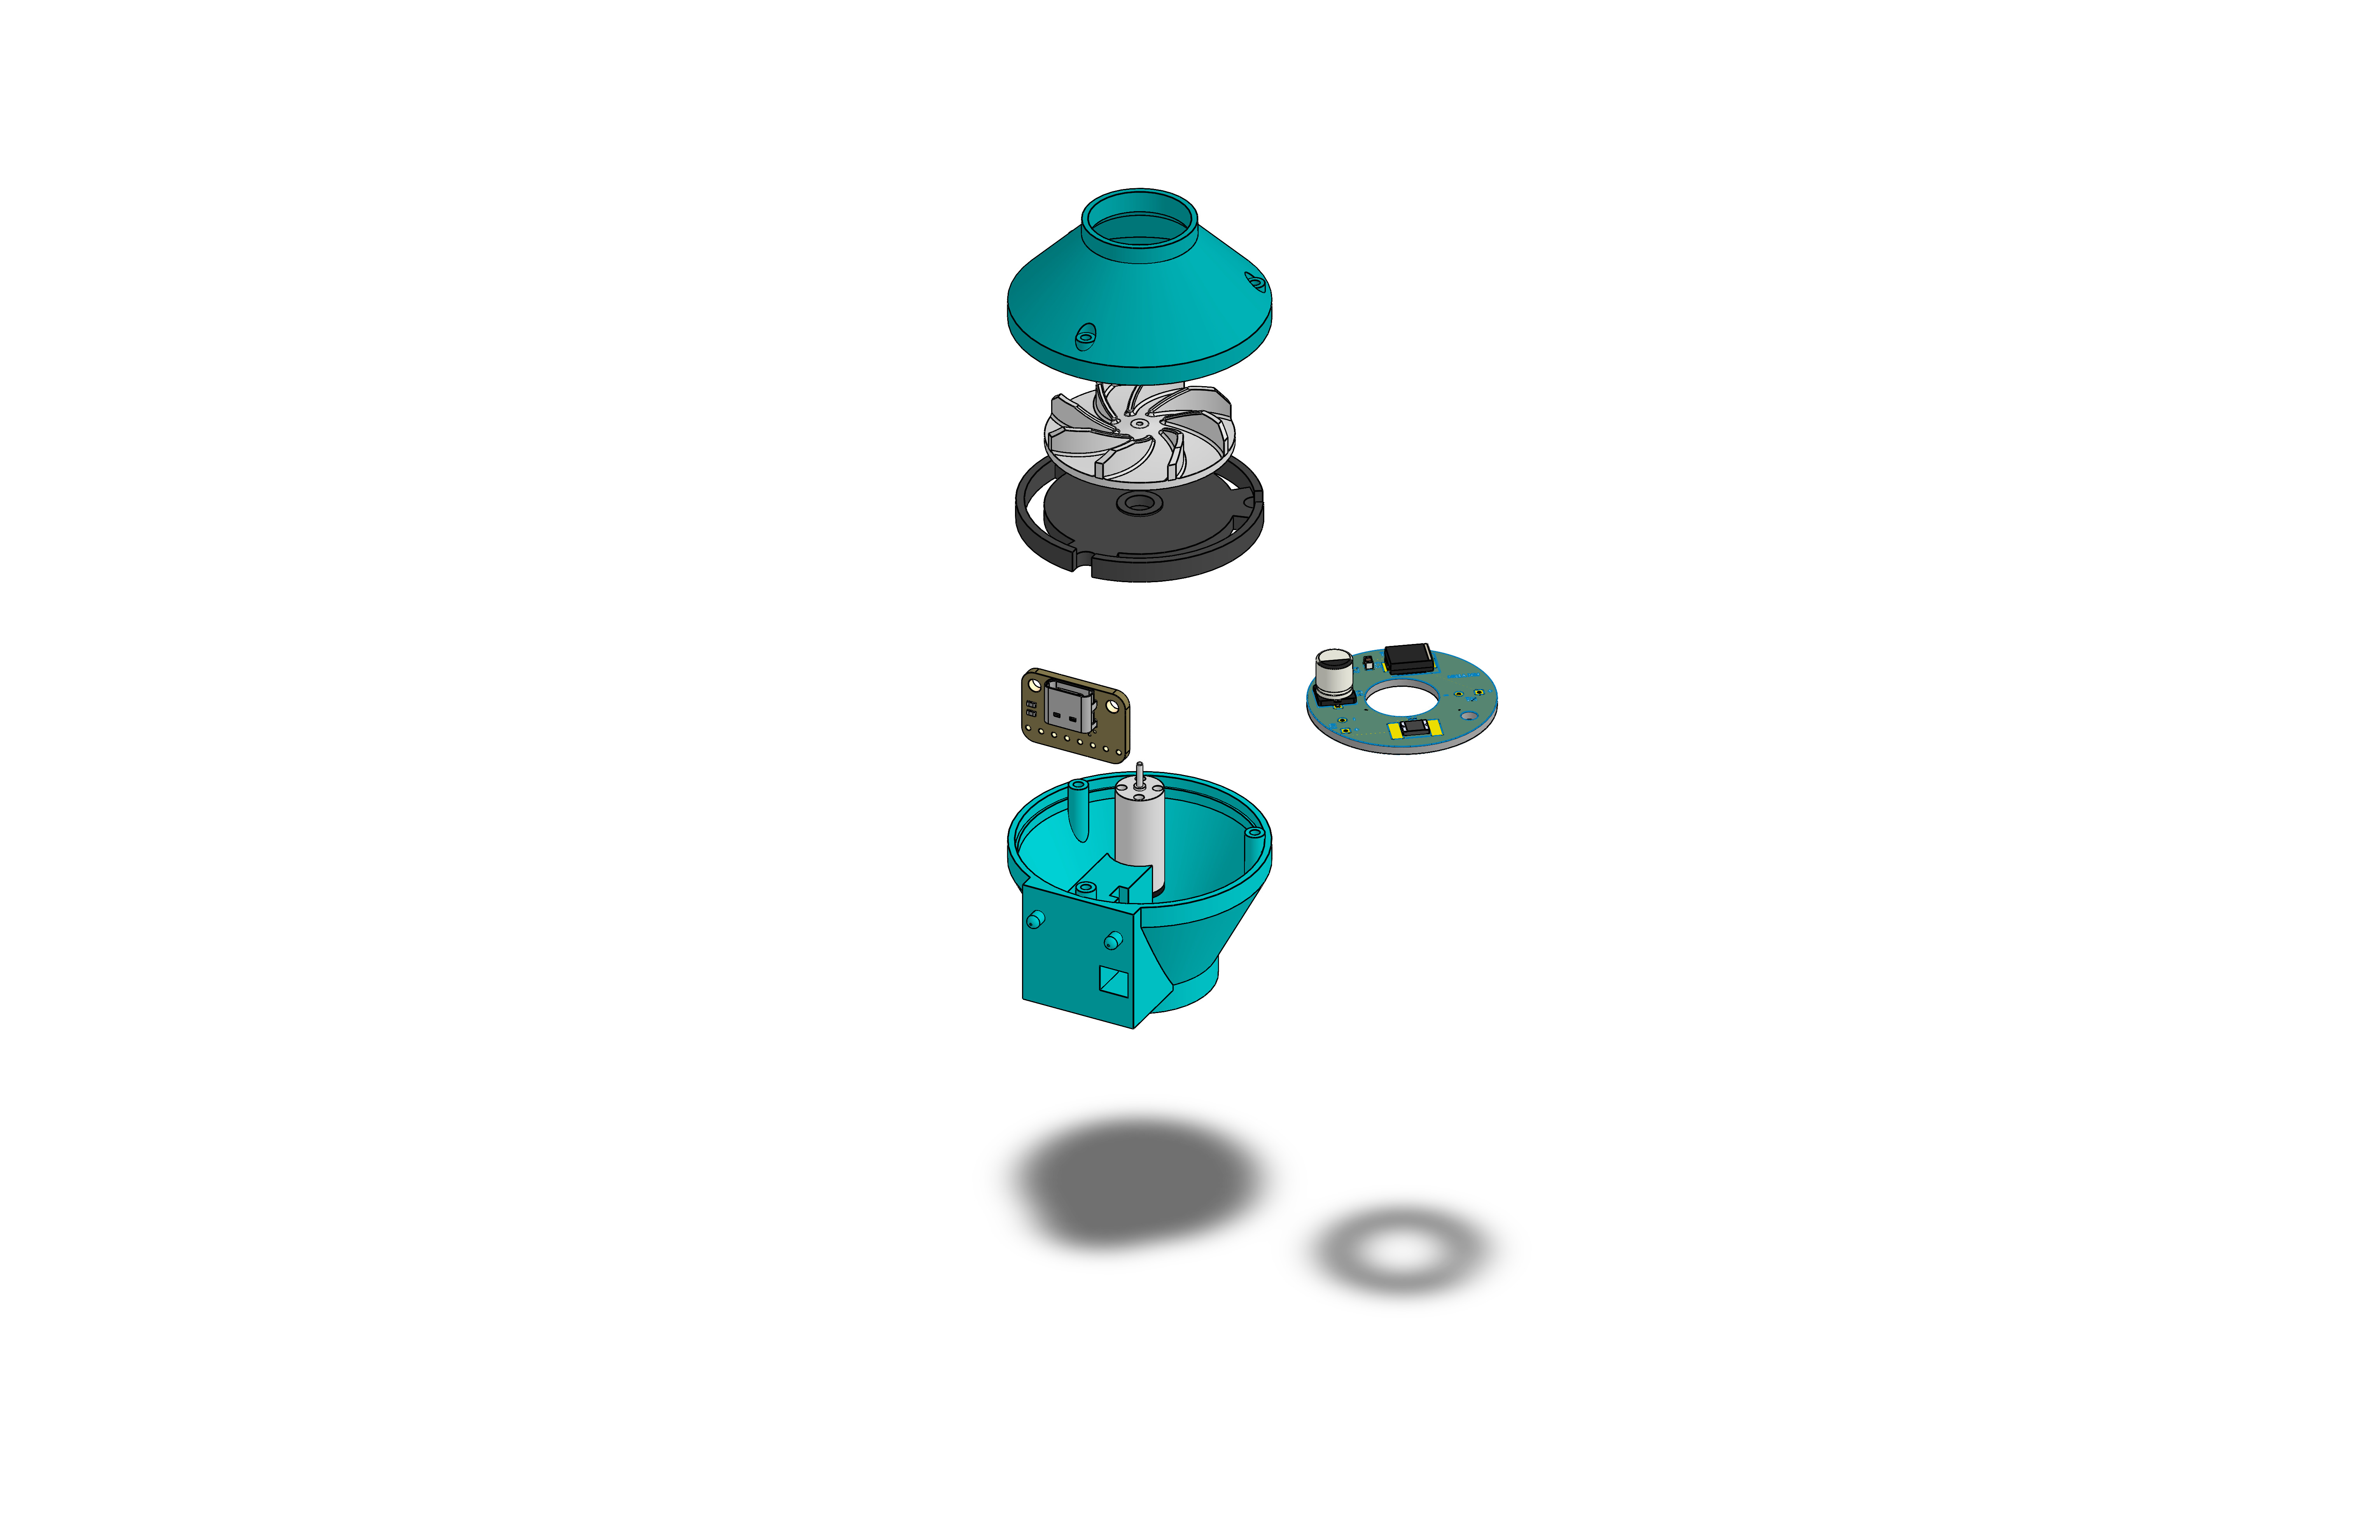
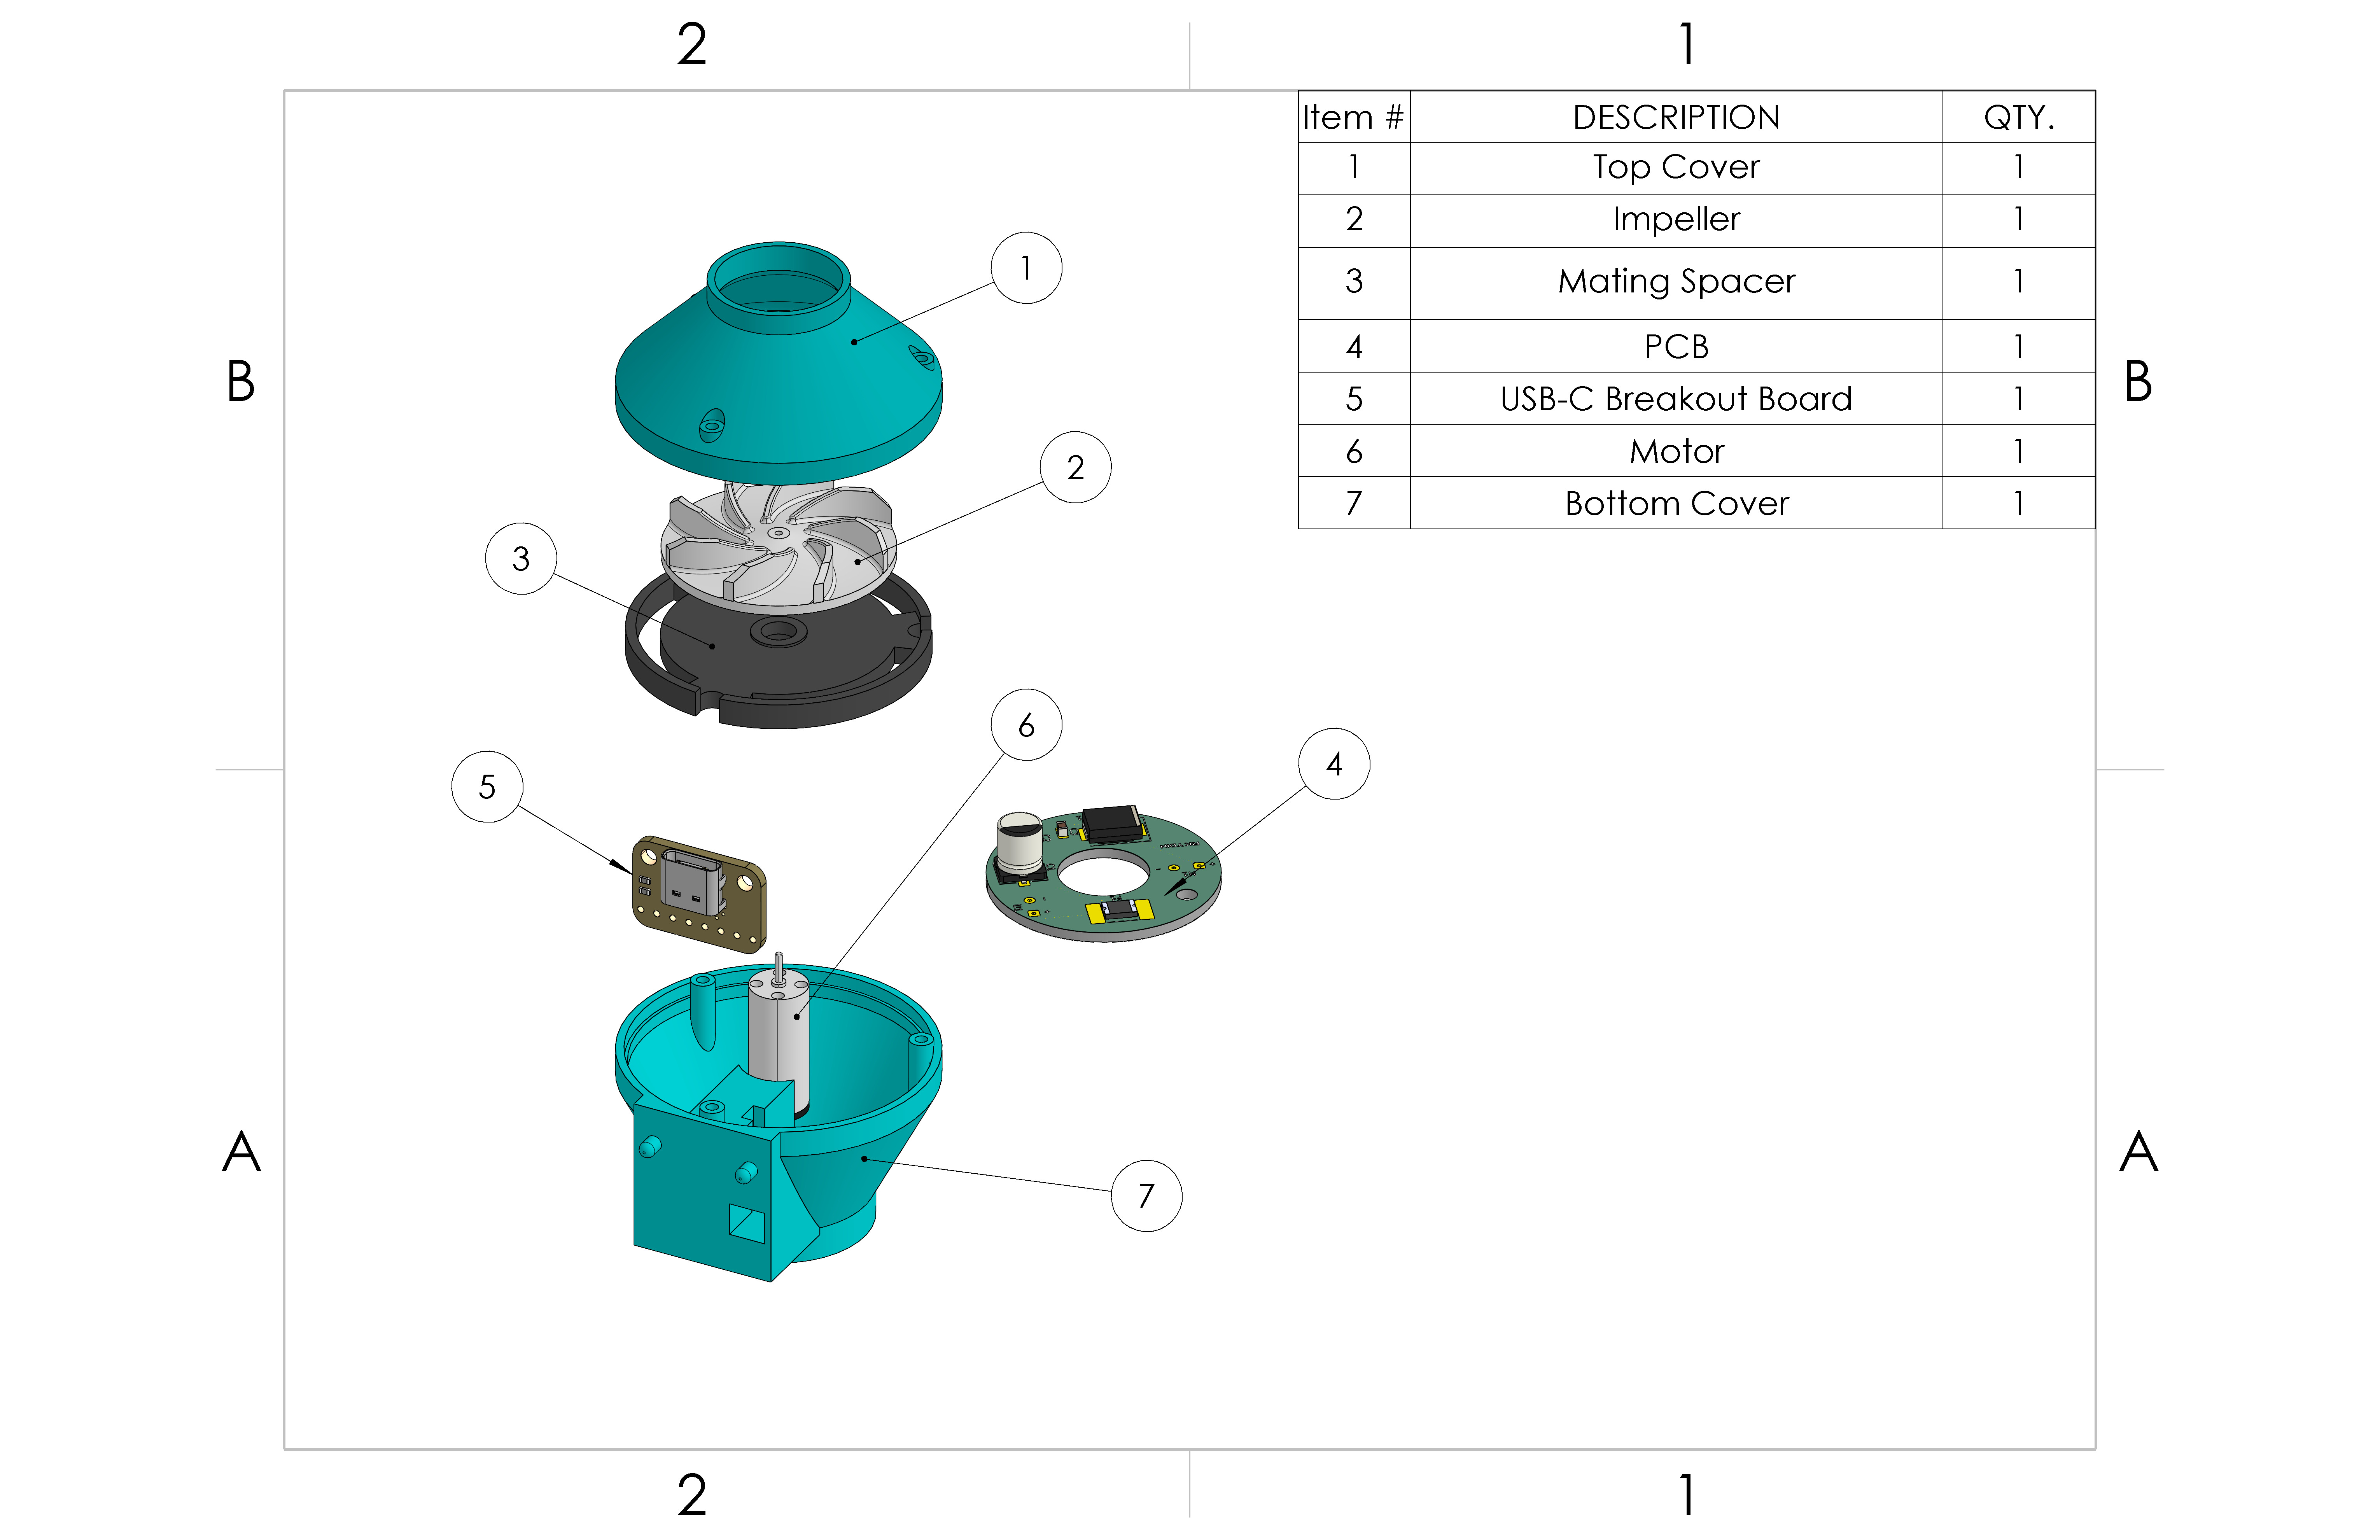
Sort portfolio by last updated, swap pump exploded view image

diff --git a/_pages/about.md b/_pages/about.md
@@ -328,7 +328,8 @@ redirect_from:
 </div>
 
 <div class="bp-grid">
-{% for post in site.portfolio %}
+{% assign sorted_portfolio = site.portfolio | sort: 'last_updated' | reverse %}
+{% for post in sorted_portfolio %}
   <a href="{{ post.url | relative_url }}" class="bp-card">
     <div class="bp-card-strip">
       <span class="bp-card-tag">{{ post.category | default: "Project" }}</span>

diff --git a/_portfolio/bos-imaging.md b/_portfolio/bos-imaging.md
@@ -2,6 +2,7 @@
 title: "Background-Oriented Schlieren Imaging"
 excerpt: "Making invisible air density gradients visible using optical techniques and Python."
 category: "Optics"
+last_updated: 2026-03-11
 collection: portfolio
 layout: portfolio
 author_profile: true

diff --git a/_portfolio/face-recognition.md b/_portfolio/face-recognition.md
@@ -3,6 +3,7 @@ title: "Desktop Face Recognition Tool"
 excerpt: "Python application using OpenCV and face_recognition library with a Tkinter UI for enrolling and recognizing users from a webcam stream."
 category: "Software"
 date: 2025-05-01
+last_updated: 2025-11-16
 header:
   teaser: /images/face-recognition/main-menu.png
 collection: portfolio

diff --git a/_portfolio/miscellaneous.md b/_portfolio/miscellaneous.md
@@ -2,6 +2,7 @@
 title: "Miscellaneous Projects"
 excerpt: "A collection of random things I've made."
 category: "Misc"
+last_updated: 2025-11-20
 collection: portfolio
 layout: portfolio
 author_profile: true

diff --git a/_portfolio/moleiq.md b/_portfolio/moleiq.md
@@ -2,6 +2,7 @@
 title: "MoleIQ - Commercial Product Development"
 excerpt: "Redesigning production hardware for a pallet-handling robot with focus on manufacturability and GD&T documentation."
 category: "Product Design"
+last_updated: 2026-01-18
 collection: portfolio
 layout: portfolio
 author_profile: true

diff --git a/_portfolio/paraswing.md b/_portfolio/paraswing.md
@@ -3,6 +3,7 @@ title: "ParaSwing - Wheelchair-Mounted Golf Swing Assist Device"
 excerpt: "Senior capstone project: designed and built a wheelchair-mounted robotic assist device to help users perform a repeatable golf swing."
 category: "Assistive Tech"
 date: 2024-12-01
+last_updated: 2025-11-14
 collection: portfolio
 layout: portfolio
 author_profile: true

diff --git a/_portfolio/robotic-arm.md b/_portfolio/robotic-arm.md
@@ -2,6 +2,7 @@
 title: "Surgical-Inspired Robotic Arm"
 excerpt: "Building an affordable teleoperated robotic arm with 7 degrees of freedom for precise human-like movements."
 category: "Robotics"
+last_updated: 2025-12-12
 collection: portfolio
 layout: portfolio
 author_profile: true

diff --git a/_portfolio/sleepingpad-pump.md b/_portfolio/sleepingpad-pump.md
@@ -2,6 +2,7 @@
 title: "UltraLight Sleeping Pad Pump"
 excerpt: "Compact, lightweight inflator for backpacking sleeping pads."
 category: "Outdoor Gear"
+last_updated: 2026-07-06
 collection: portfolio
 layout: portfolio
 author_profile: true